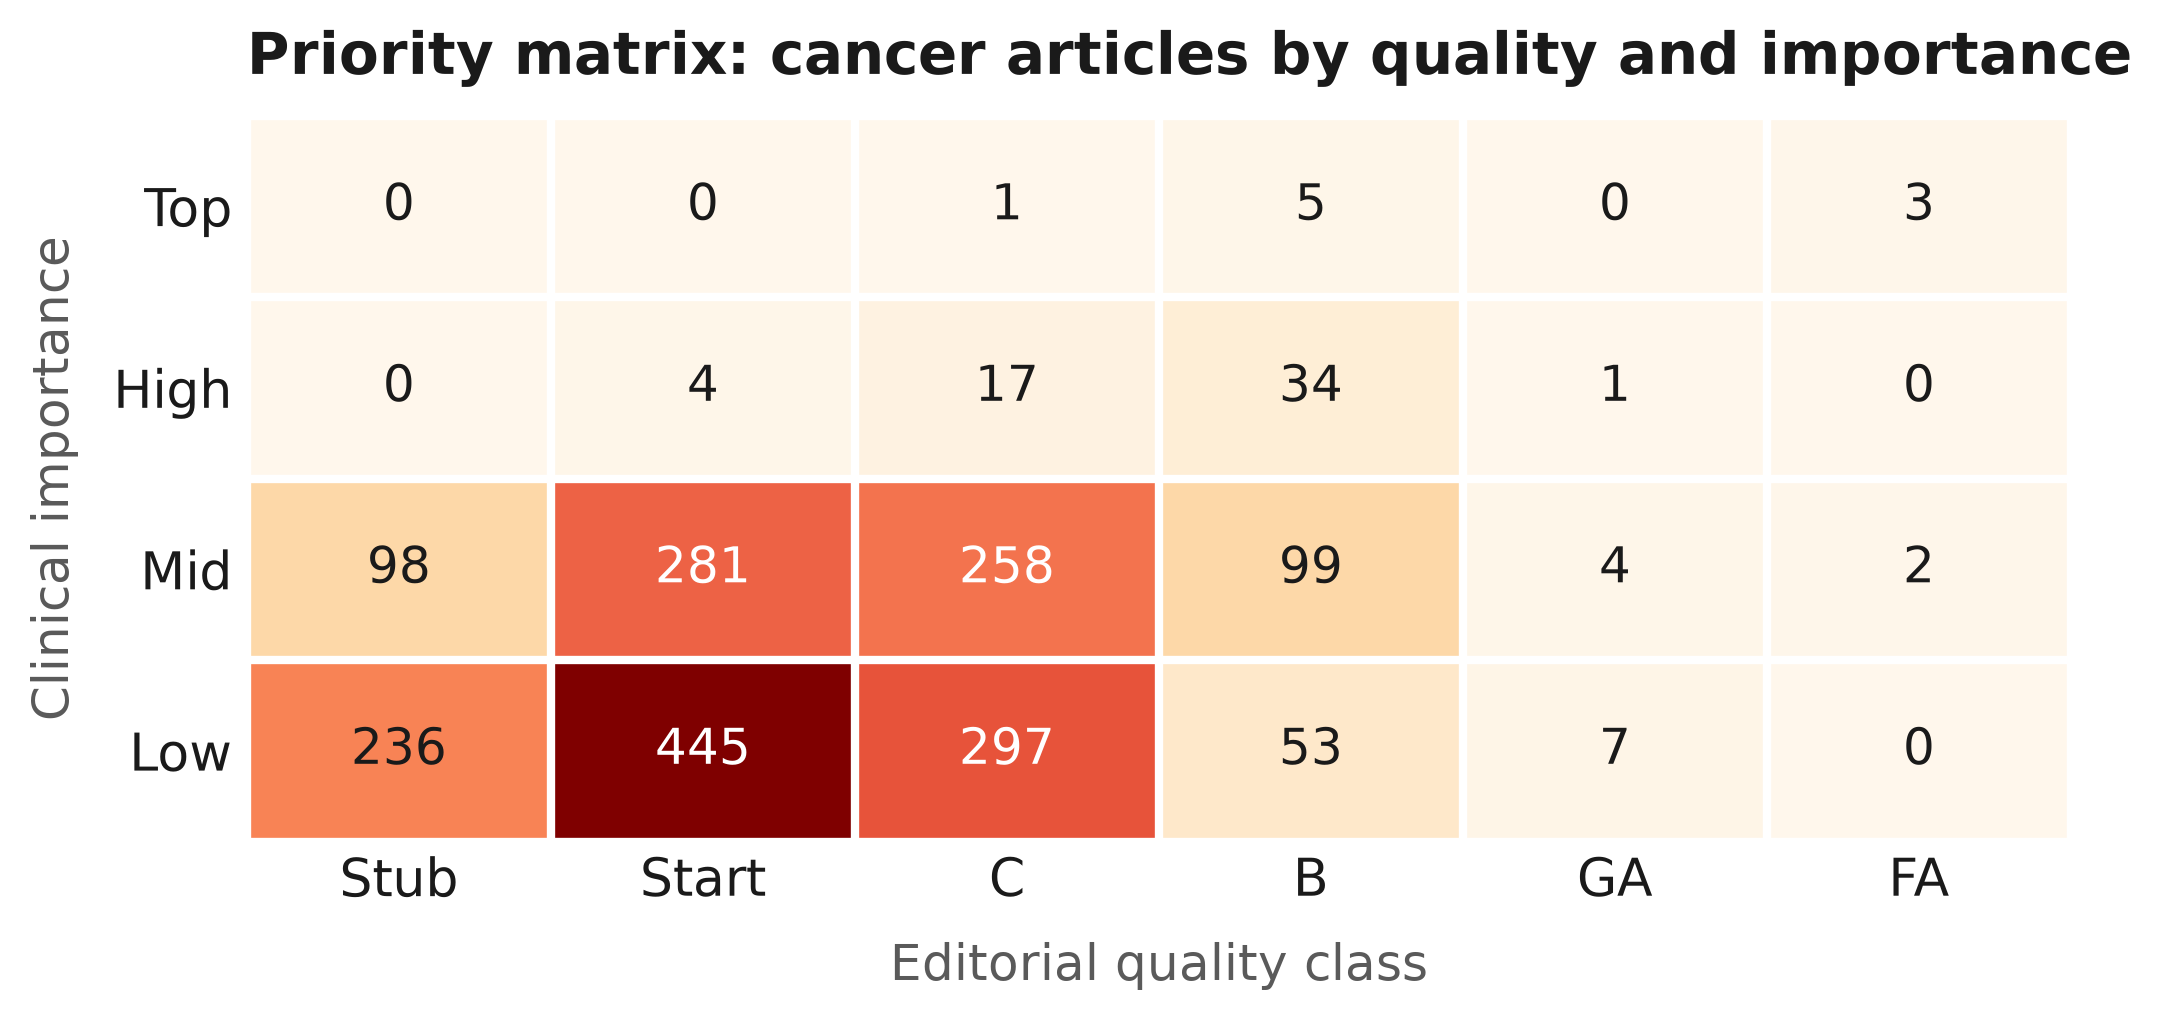
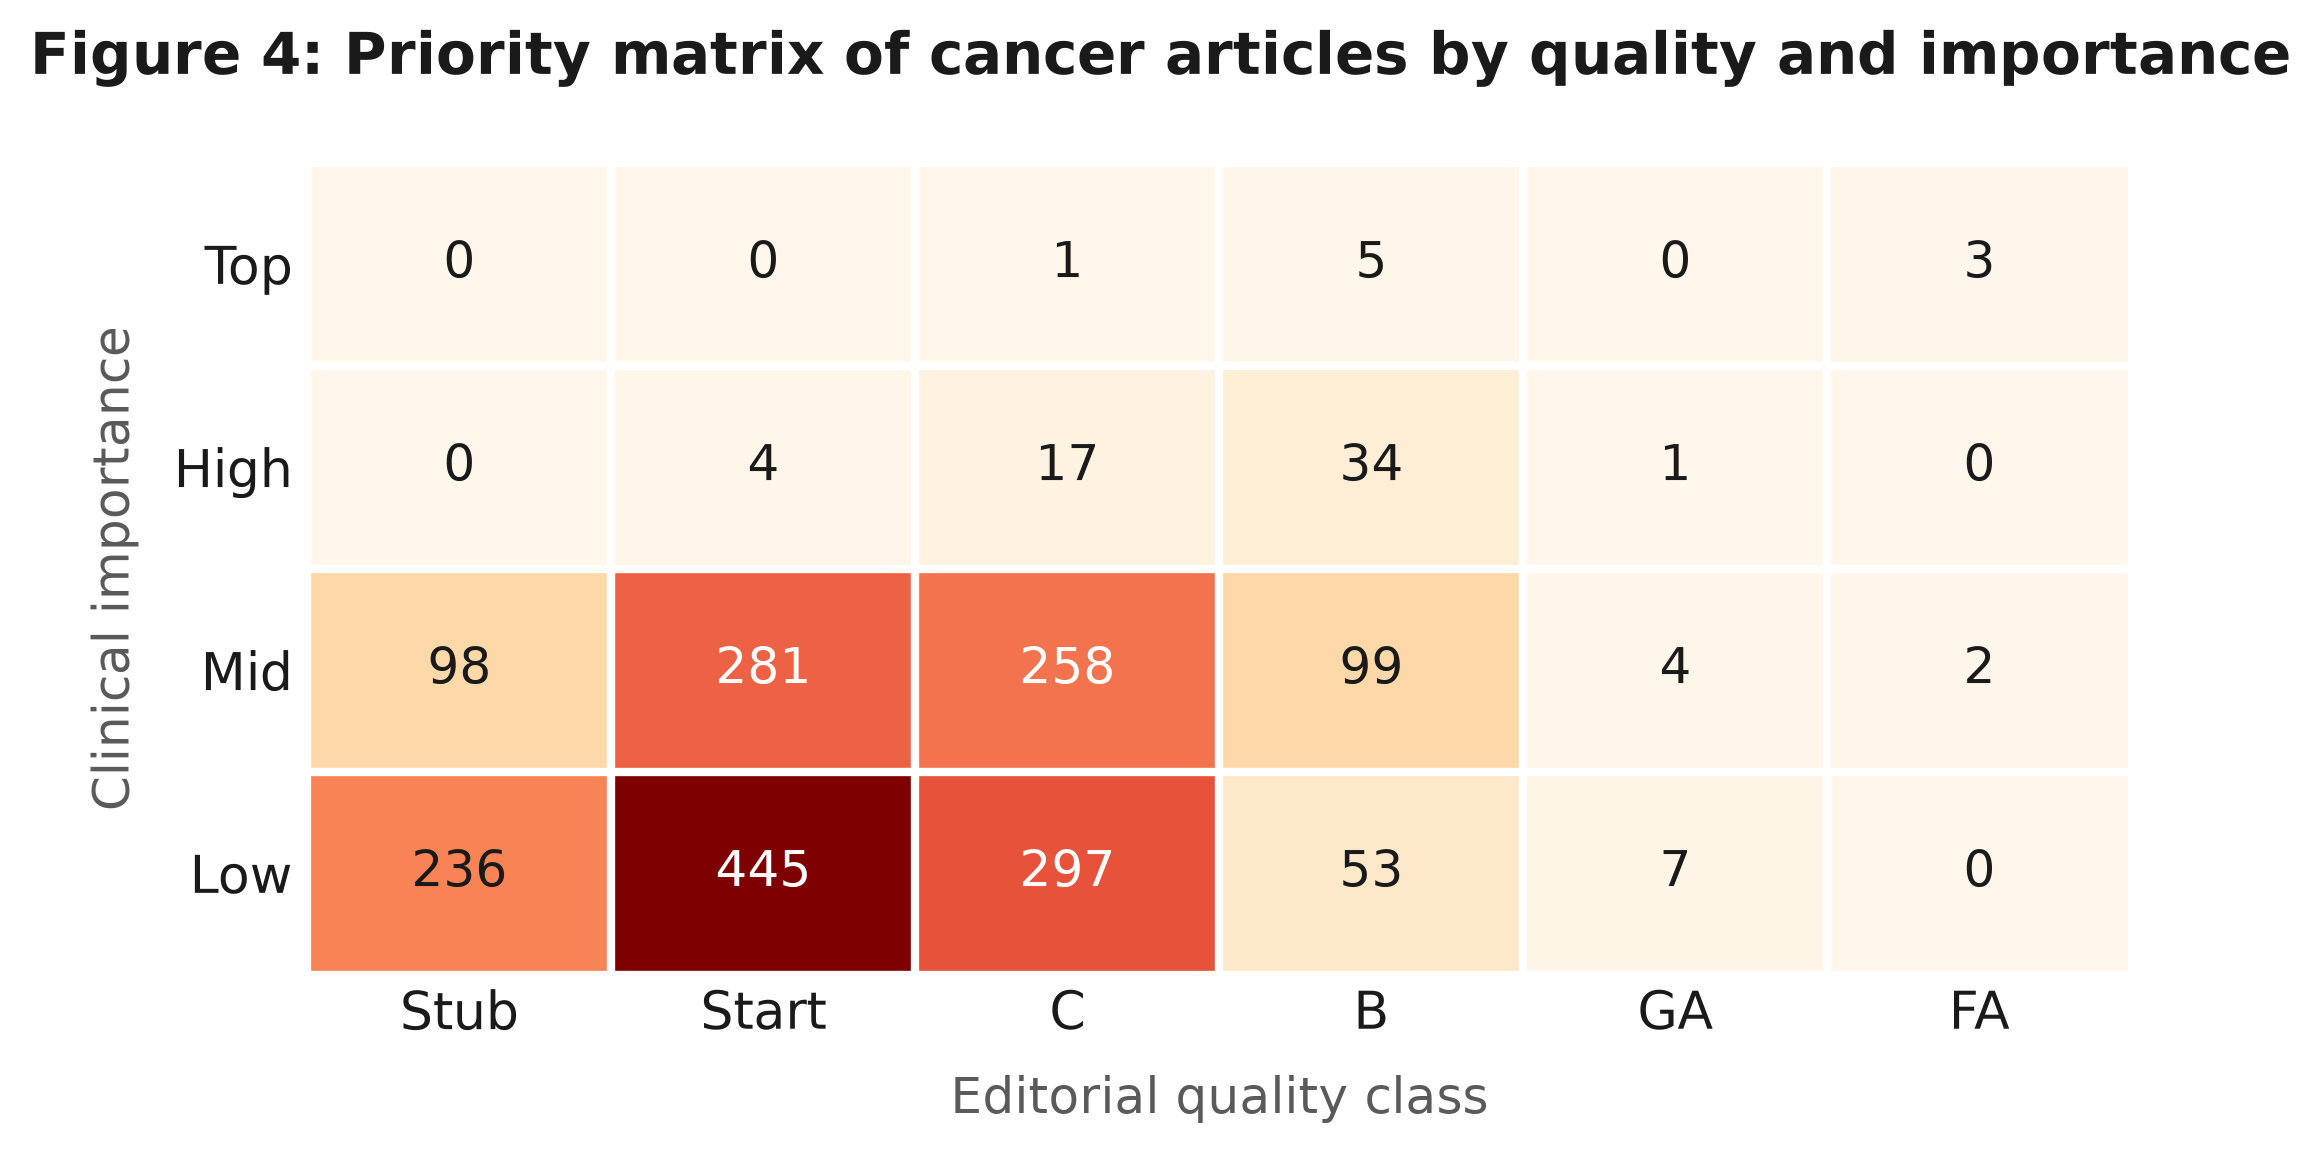
style: number every figure title and align it to the figure's left edge
ax.set_title(loc="left") aligns to the left edge of the AXES, not the figure,
so on figures with wide y-tick labels the title sat indented and read as
centred. Titles are now placed with fig.text at figure x=0, which with
bbox_inches="tight" becomes the left boundary of the saved image.

Each title now carries its figure number, so a figure pasted into the poster
identifies itself without relying on the caption.

Two titles also lost a double colon that the numbering introduced: Figure 4
"Priority matrix: cancer articles..." became "Priority matrix of cancer
articles...", and Figure 5 "Readability: 68% of..." became "Reading grade
distribution, 68% of...".

diff --git a/tools_make_nci_poster_figures.py b/tools_make_nci_poster_figures.py
@@ -105,6 +105,12 @@ def save(fig, name, attempts=6):
                 raise
             time.sleep(0.75)
 
+def fig_title(fig, num, text):
+    """Numbered title, flush to the figure's left edge rather than the axes'."""
+    fig.text(0.0, 1.015, f"Figure {num}: {text}", ha="left", va="bottom",
+             fontsize=14, weight="bold", color=INK)
+
+
 def fig_mesh_cascade():
     """Figure 1 - the seven-layer MeSH descriptor assignment cascade.
 
@@ -143,7 +149,7 @@ def fig_mesh_cascade():
 
     X_NUM, X_METHOD, X_SRC, X_APPR, X_CONF = 0.30, 0.78, 4.30, 6.50, 12.30
 
-    ax.text(0, 8.72, "MeSH descriptor assignment cascade",
+    ax.text(0, 8.72, "Figure 1: MeSH descriptor assignment cascade",
             fontsize=15.5, weight="bold", color=INK, va="top")
     ax.text(0, 8.32,
             "Seven layers applied in order of data reliability. Each layer processes only the "
@@ -220,8 +226,7 @@ def fig_identification(can):
     ax.set_axisbelow(True)
     despine(ax, keep=("bottom",))
     ax.tick_params(axis="y", length=0)
-    ax.set_title(f"Cancer-related articles identified (n = {total:,})",
-                 fontsize=14, color=INK, pad=10, loc="left", weight="bold")
+    fig_title(fig, 2, f"Cancer-related articles identified (n = {total:,})")
     fig.tight_layout()
     save(fig, "fig2_identification.png")
     plt.close(fig)
@@ -254,8 +259,7 @@ def fig_priority_matrix(can):
     ax.tick_params(length=0)
     for s in ax.spines.values():
         s.set_visible(False)
-    ax.set_title("Priority matrix: cancer articles by quality and importance",
-                 fontsize=14, color=INK, pad=10, loc="left", weight="bold")
+    fig_title(fig, 4, "Priority matrix of cancer articles by quality and importance")
     fig.tight_layout()
     save(fig, "fig4_priority_matrix.png")
     plt.close(fig)
@@ -288,8 +292,7 @@ def fig_scatter(can):
                     framealpha=0.95, edgecolor=GRID, title="Quality class")
     leg.get_title().set_fontsize(11.5)
     leg.get_title().set_color(INK_MUTED)
-    ax.set_title("Editorial need against current readership",
-                 fontsize=14, color=INK, pad=10, loc="left", weight="bold")
+    fig_title(fig, 3, "Editorial need against current readership")
     fig.tight_layout()
     save(fig, "fig3_impact_vs_attention.png")
     plt.close(fig)
@@ -326,8 +329,7 @@ def fig_readability(can):
     ax.set_axisbelow(True)
     despine(ax)
     ax.set_xlim(0, 30)
-    ax.set_title(f"Readability: {pct:.0f}% of cancer articles exceed grade 12",
-                 fontsize=14, color=INK, pad=10, loc="left", weight="bold")
+    fig_title(fig, 5, f"Reading grade distribution, {pct:.0f}% of cancer articles above grade 12")
     fig.tight_layout()
     save(fig, "fig5_readability.png")
     plt.close(fig)

diff --git a/tools_make_nci_poster_text.py b/tools_make_nci_poster_text.py
@@ -11,9 +11,19 @@ OUT_MD = BASE + r"\NCI_poster_text_cancer_dashboard.md"
 
 TITLE = ("WikiMed Article Recommender: An Open-Source Dashboard for Data-Driven "
          "Prioritization of Cancer-Related Wikipedia Article Editing")
-AUTHORS = "Zach Schneider-Lynch, Ed.M.; Jeremy Warner, MD, MS, FAMIA, FASCO"
-AFFIL = ("Warren Alpert Medical School of Brown University; "
-         "Center for Clinical Cancer Informatics and Data Science (CCIDS)")
+# Post-nominals for the Vanderbilt coauthors are left blank deliberately rather
+# than guessed; fill them in before submission.
+AUTHORS = [
+    ("Zach Schneider-Lynch, Ed.M.", "1"),
+    ("Sanjay Mishra", "2"),
+    ("Sheela Kusnoor", "2"),
+    ("Jeremy Warner, MD, MS, FAMIA, FASCO", "1"),
+]
+AFFILIATIONS = [
+    "Warren Alpert Medical School of Brown University, Center for Clinical Cancer "
+    "Informatics and Data Science (CCIDS), Providence, RI",
+    "Vanderbilt University Medical Center, Nashville, TN",
+]
 
 SECTIONS = [
     ("ABSTRACT", [
@@ -341,8 +351,27 @@ def build_docx():
 
     head("Title", 12, before=10)
     body(TITLE)
-    body(AUTHORS)
-    muted(AFFIL, 10)
+
+    pa = doc.add_paragraph()
+    pa.paragraph_format.space_after = Pt(3)
+    for i, (name, sup) in enumerate(AUTHORS):
+        pa.add_run(name)
+        rs = pa.add_run(sup)
+        rs.font.superscript = True
+        if i < len(AUTHORS) - 1:
+            pa.add_run(", ")
+
+    for n, aff in enumerate(AFFILIATIONS, 1):
+        pf = doc.add_paragraph()
+        pf.paragraph_format.space_after = Pt(1)
+        rn = pf.add_run(str(n))
+        rn.font.superscript = True
+        rn.italic = True
+        rn.font.color.rgb = RGBColor(0x66, 0x66, 0x66)
+        ra = pf.add_run(aff)
+        ra.italic = True
+        ra.font.size = Pt(10)
+        ra.font.color.rgb = RGBColor(0x66, 0x66, 0x66)
 
     for name, paras in SECTIONS:
         head(name)
@@ -400,7 +429,13 @@ def build_md():
     L = ["# NCI Data to Discovery Symposium - Poster Text\n",
          "Cancer Dashboard. Figures in `poster_figures/`.\n",
          "> Generated by `tools_make_nci_poster_text.py`; edit that script, not this file.\n",
-         "---\n", "## Title\n", TITLE + "\n", AUTHORS + "\n", f"*{AFFIL}*\n", "---\n"]
+         "---\n", "## Title\n", TITLE + "\n",
+         ", ".join(f"{n}^{s}^" for n, s in AUTHORS) + "\n"]
+    for n, aff in enumerate(AFFILIATIONS, 1):
+        L.append(f"^{n}^ *{aff}*")
+    L.append("")
+    L.append("---")
+    L.append("")
     for name, paras in SECTIONS:
         L.append(f"## {name}\n")
         for t in paras:

diff --git a/NCI_poster_text_cancer_dashboard.md b/NCI_poster_text_cancer_dashboard.md
@@ -10,9 +10,10 @@ Cancer Dashboard. Figures in `poster_figures/`.
 
 WikiMed Article Recommender: An Open-Source Dashboard for Data-Driven Prioritization of Cancer-Related Wikipedia Article Editing
 
-Zach Schneider-Lynch, Ed.M.; Jeremy Warner, MD, MS, FAMIA, FASCO
+Zach Schneider-Lynch, Ed.M.^1^, Sanjay Mishra^2^, Sheela Kusnoor^2^, Jeremy Warner, MD, MS, FAMIA, FASCO^1^
 
-*Warren Alpert Medical School of Brown University; Center for Clinical Cancer Informatics and Data Science (CCIDS)*
+^1^ *Warren Alpert Medical School of Brown University, Center for Clinical Cancer Informatics and Data Science (CCIDS), Providence, RI*
+^2^ *Vanderbilt University Medical Center, Nashville, TN*
 
 ---
 
